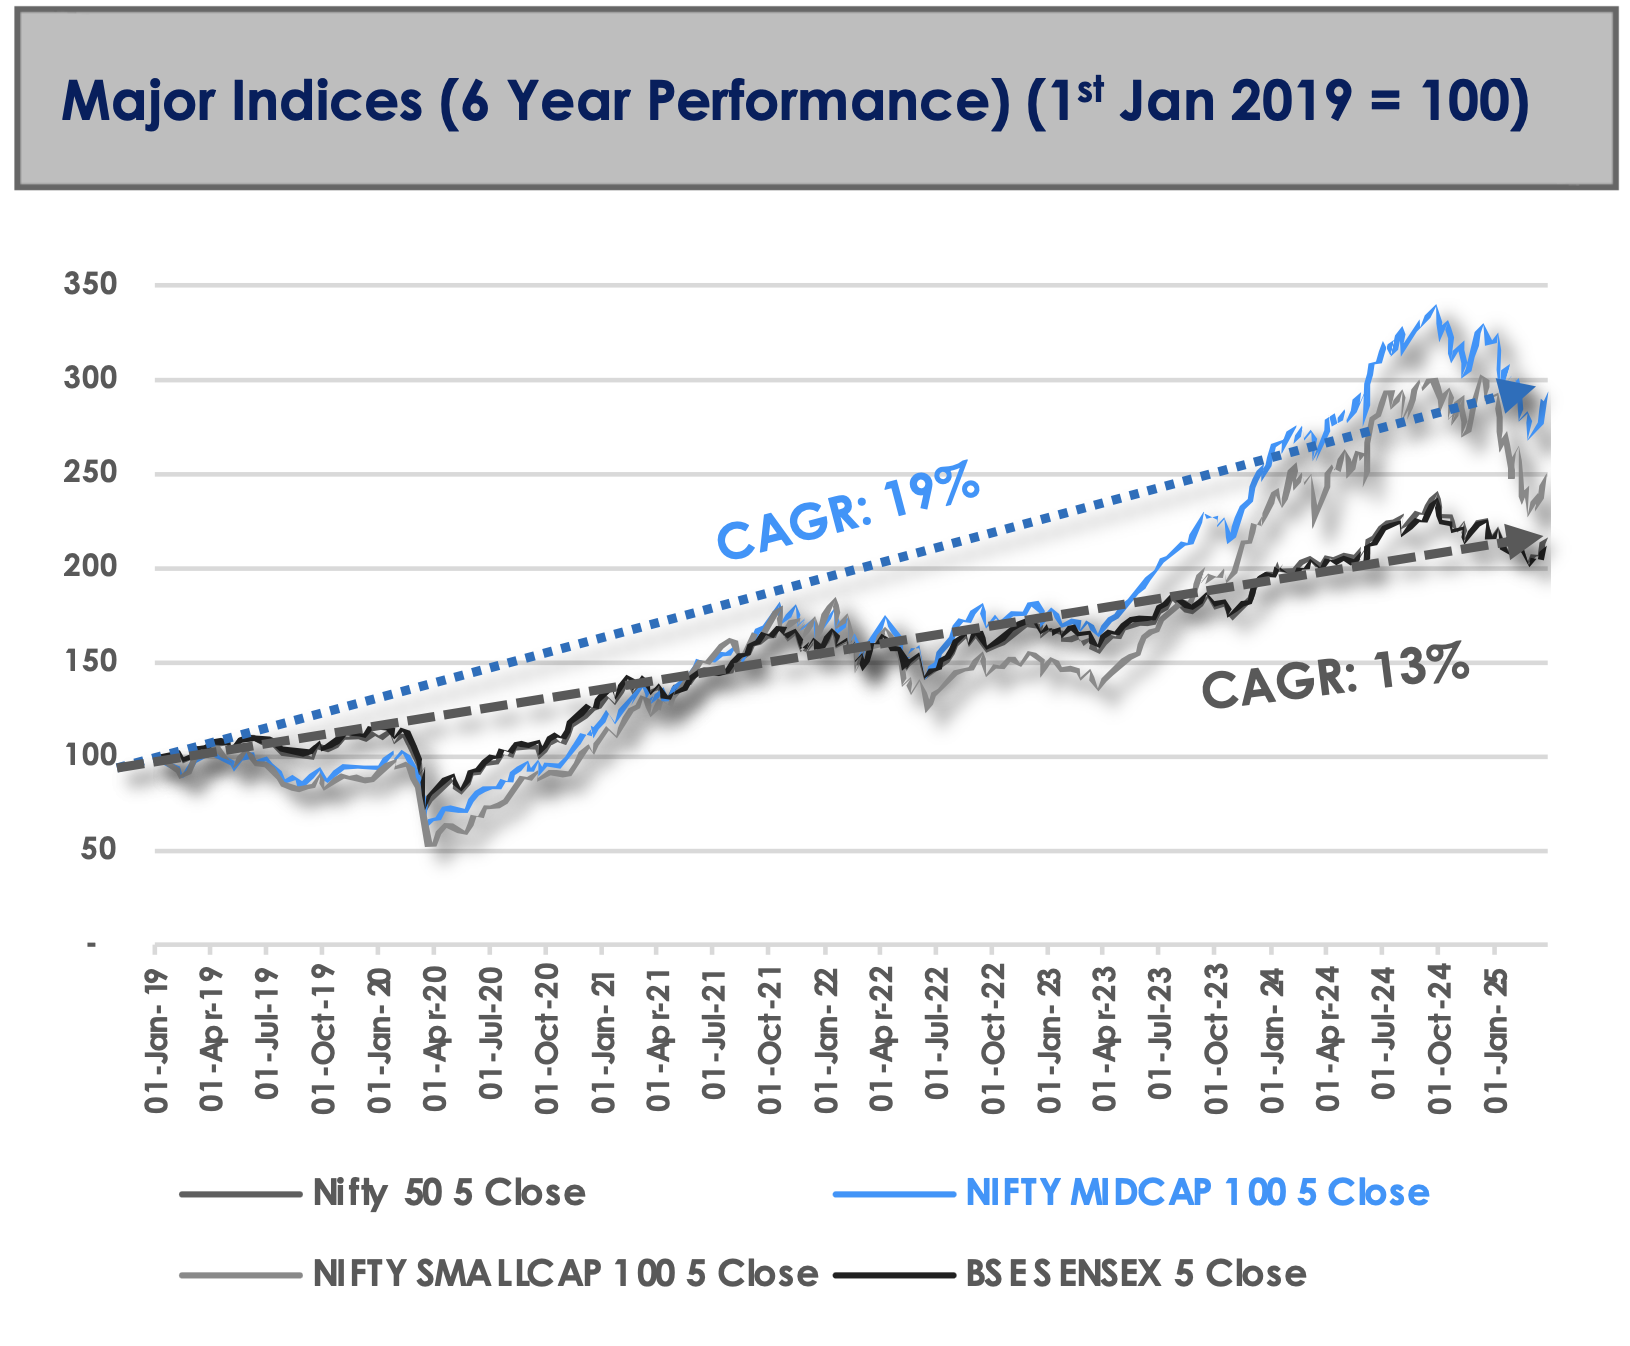
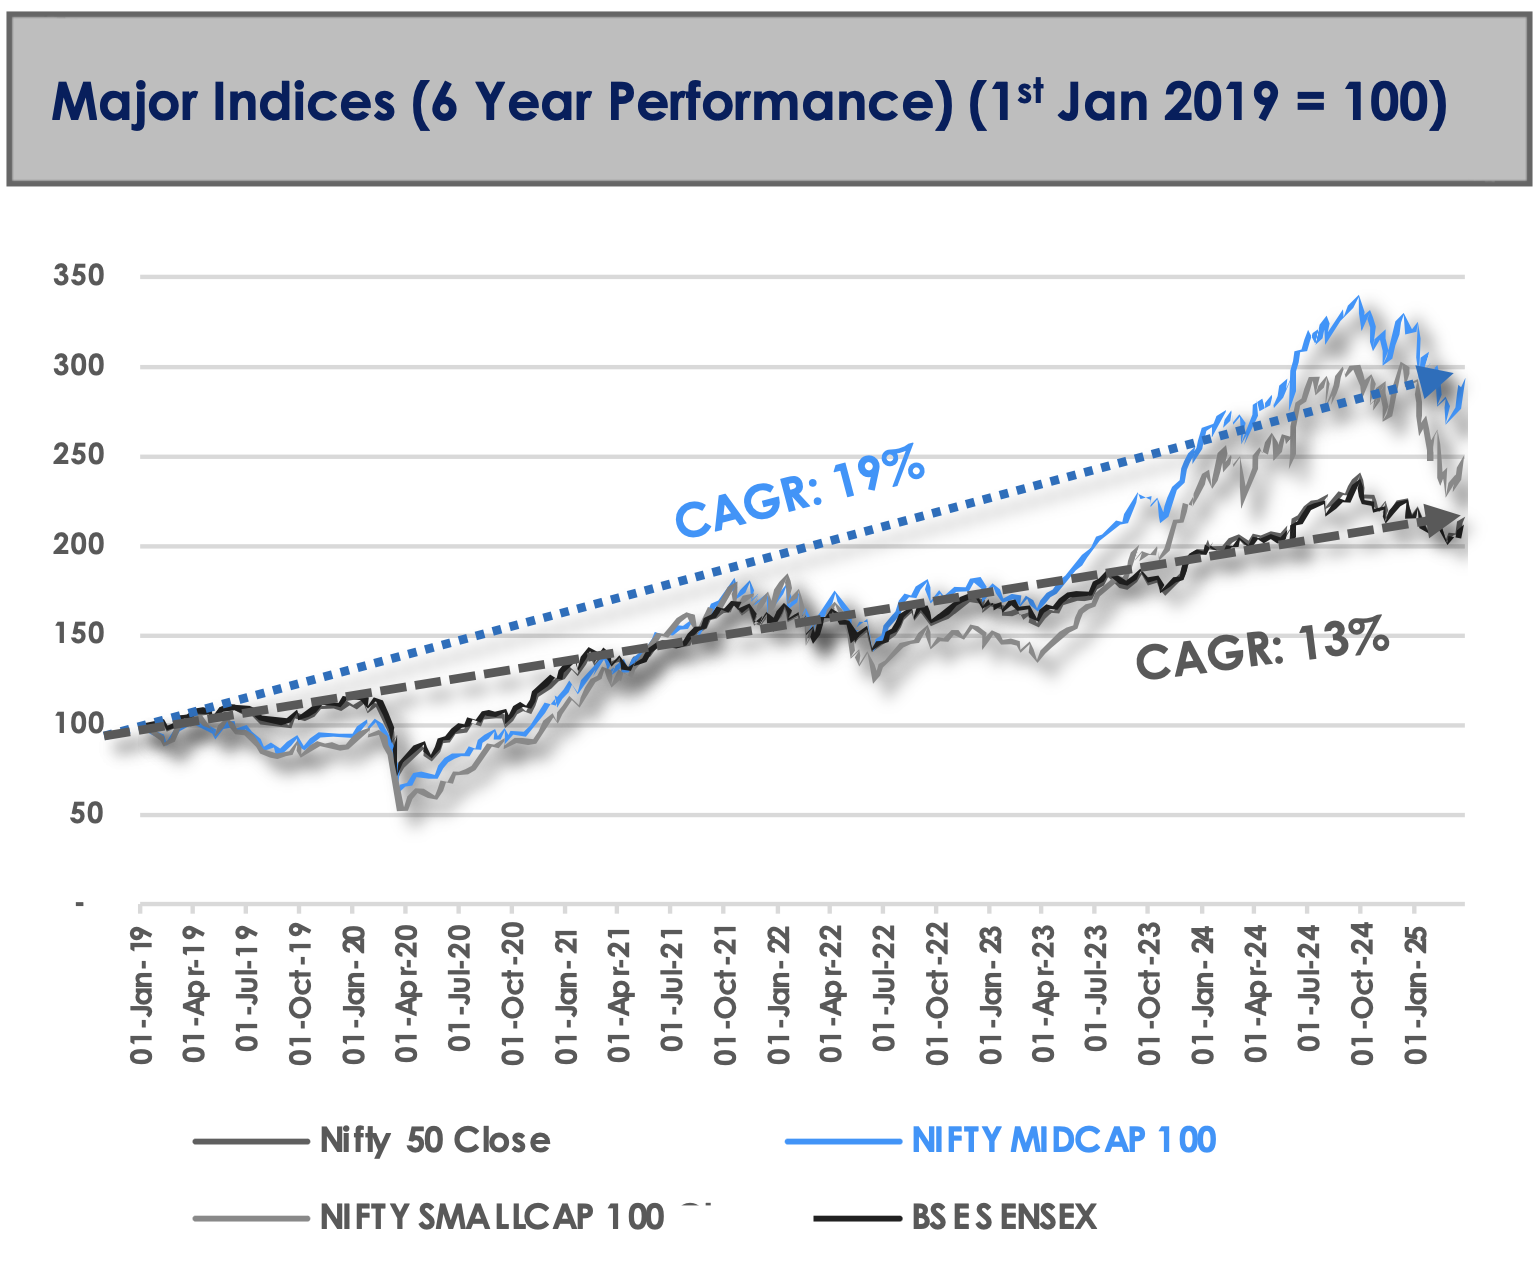
20250413: adding indian market performance page4

Changed region(s): [[0.0312, 0.1854, 0.9662, 0.649], [0.0623, 0.6799, 0.9351, 0.9889], [0.0, 0.0, 0.9974, 0.1545]]

diff --git a/app/indian-market-overview/page.js b/app/indian-market-overview/page.js
@@ -26,7 +26,19 @@ export default function IndianMarketOverviewPage() {
         </p>
         <div className={styles.chartContainer}>
           <Image
-            src="/Resources/indian-market-overview/real-gdp-growth-chart.png" // ** DOUBLE CHECK PATH **
+            src="/Resources/indian-market-overview/real-gdp-growth.png" // ** DOUBLE CHECK PATH **
+            alt="India Real GDP Growth Chart (Annual % change)"
+            width={800}
+            height={450}
+            className={styles.chartImage}
+          />
+          <p className={styles.chartCaption}>
+            Historical and Projected Real GDP Growth. Source: IMF, RBI, World Bank (Illustrative)
+          </p>
+        </div>
+        <div className={styles.chartContainer}>
+          <Image
+            src="/Resources/indian-market-overview/gdp-contribution.png" // ** DOUBLE CHECK PATH **
             alt="India Real GDP Growth Chart (Annual % change)"
             width={800}
             height={450}
@@ -67,7 +79,7 @@ export default function IndianMarketOverviewPage() {
            {/* First Image Container & Image */}
            <div className={styles.chartContainer}>
              <Image
-               src="/Resources/indian-market-overview/inflation-trends-chart.png" // ** DOUBLE CHECK PATH **
+               src="/Resources/indian-market-overview/inflation-trends.png" // ** DOUBLE CHECK PATH **
                alt="India Inflation Trends (CPI & WPI)"
                width={600}
                height={350}
@@ -78,7 +90,7 @@ export default function IndianMarketOverviewPage() {
            {/* Second Image Container & Image */}
            <div className={styles.chartContainer}>
              <Image
-               src="/Resources/indian-market-overview/rbi-repo-rate-chart.png" // ** DOUBLE CHECK PATH **
+               src="/Resources/indian-market-overview/rbi-repo-rate.png" // ** DOUBLE CHECK PATH **
                alt="RBI Repo Rate Chart"
                width={600}
                height={350}
@@ -95,7 +107,7 @@ export default function IndianMarketOverviewPage() {
         </p>
          <div className={styles.chartContainer}>
           <Image
-            src="/Resources/indian-market-overview/fiscal-deficit-chart.png" // ** DOUBLE CHECK PATH **
+            src="/Resources/indian-market-overview/fiscal-deficit.png" // ** DOUBLE CHECK PATH **
             alt="India Fiscal Deficit as % of GDP"
             width={700}
             height={400}
